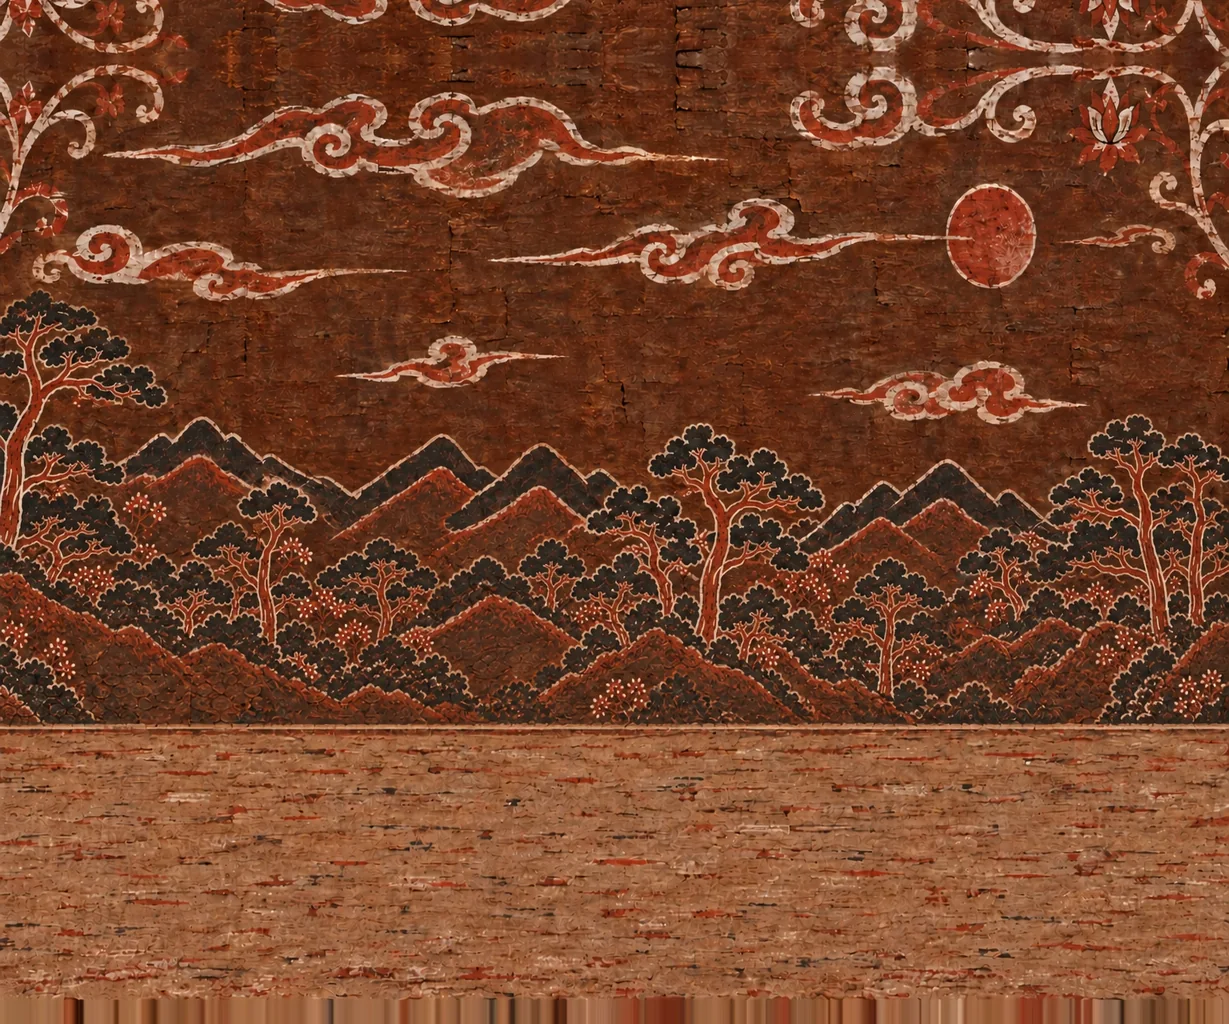
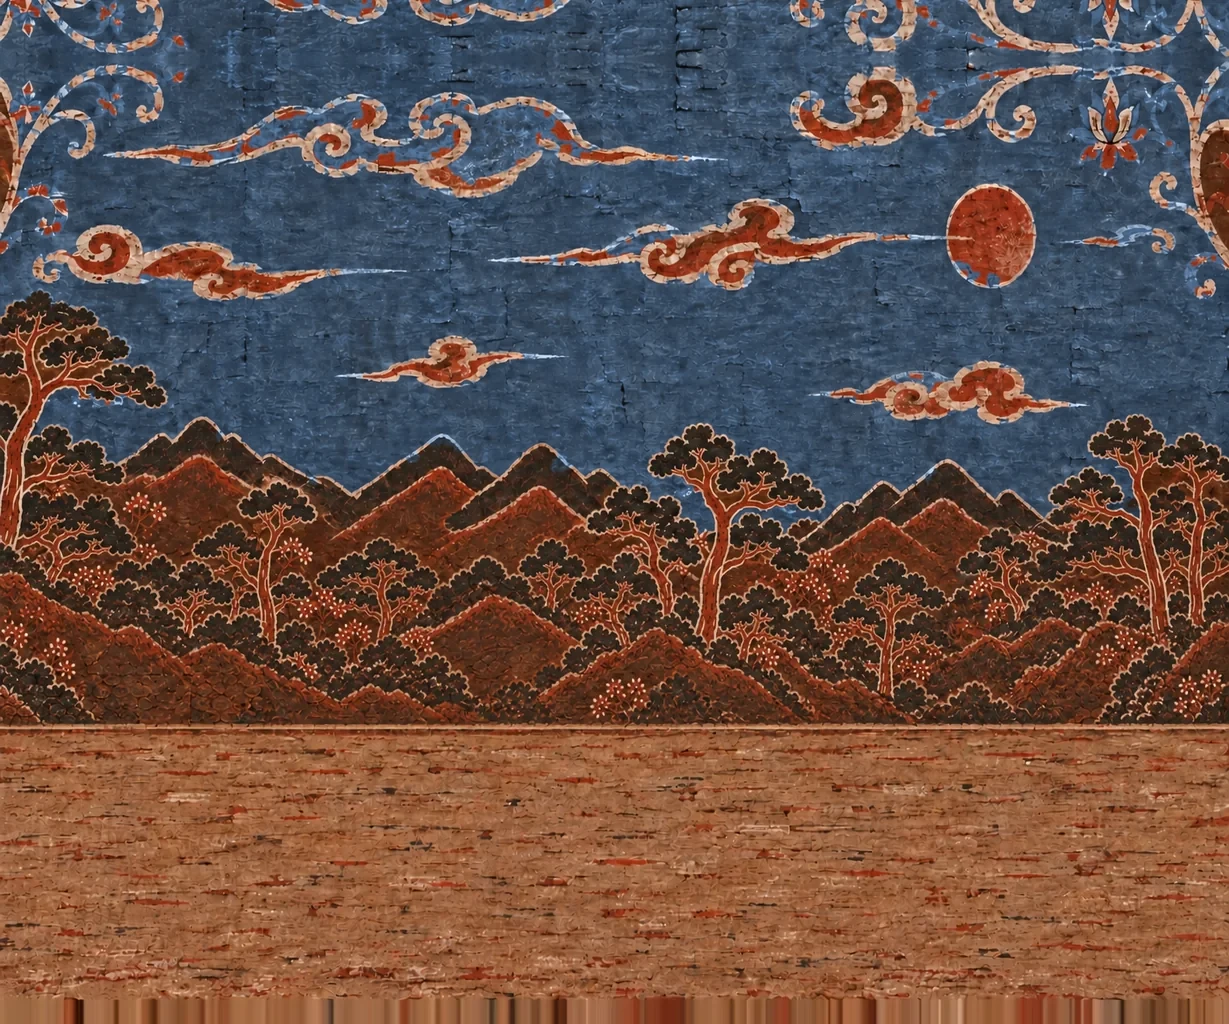
The sky of Seorabeol is grey-blue: only the bark ground of the sky is recoloured

diff --git a/docs/넘김.md b/docs/넘김.md
@@ -11,8 +11,8 @@
   - 모든 자리의 배경이 **세 겹**이 되었다: 후경(먼 건물, 물, 산, 하늘) / 중경(앞줄의 집과 좌판, 사람들) / 전경(눈앞의 것 넷). 그림이 있으면 저절로 켜진다(`node tools/layers.mjs` → `game/src/core/layers.js`). 실내 아홉 장면은 후경이 없다. 카메라와 사람들의 몸짓(`deep`)은 여전히 개봉과 기자뿐이다.
   - 다 마친 자리에서는 아무도 막지 않고 장면 사이를 건너뛴다. 길이 막힌 동안 다음 장면 단추에 자물쇠가 붙는다. 새소리가 절반쯤 드물다.
   - **새 자리 넷**(바빌론 `babylon575`, 서라벌 `cheomseongdae`, 치첸이트사 `chichen1000`, 사마르칸트 `samarkand1428`)을 지었다. **사용자가 아직 열어 보지 않았다. 나는 걸어서 이야기를 끝까지 해 보지 않았다.**
-- **(2026.10.13 11시) 둘째 묶음 넷의 사실과 스토리보드를 `docs/신기한-사실.md` 끝에 적고 사용자에게 보였다: "이대로 지어"를 기다린다.**
-- **(2026.10.13 11시) 서라벌 하늘 시안**: 사용자 "서라벌 하늘색만 좀 파란 쪽으로 바꿔볼까". 먼 겹 석 장의 하늘 바탕만 세 가지 푸른빛으로 바꿨다(`assets/codex/seorabeol-sky/make.py` → `out/<장면>-far-<a 쪽빛 | b 청회색 | c 하늘빛>.webp`, 겹쳐 본 그림 `look.jpg`). 아홉 장을 `game/public/walks/seorabeol640/` 에 복사해 두었고(커밋하지 않았다) 사용자의 서라벌 탭에 바꿔 보는 단추 넷을 끼워 넣었다(새로 고치면 사라진다). 고르면 그 석 장을 `<장면>-far.webp` 로 덮어쓰고 나머지 여섯 장을 지운다. 고르지 않으면 아홉 장을 지운다.
+- **(2026.10.13 11시) 둘째 묶음 넷(바그다드, 마추픽추, 그레이트 짐바브웨, 진나라 함양)의 사실과 스토리보드를 `docs/신기한-사실.md` 끝에 적고 보였고, 사용자가 "이대로 지어"라고 했다. 짓는 중이다**(짓는 틀은 아래 9번).
+- **(2026.10.13 11시) 서라벌의 하늘을 청회색으로 바꿨다**(사용자: "서라벌 하늘색만 좀 파란 쪽으로 바꿔볼까" → 쪽빛, 청회색, 하늘빛 셋을 단추로 보고 "하늘빛은 청회색으로"). 먼 겹 석 장(`seorabeol640/<장면>-far.webp`)의 하늘 바탕만 바꿨고 구름, 해, 덩굴무늬, 산과 나무는 그대로다. 도구는 `assets/codex/seorabeol-sky/make.py`(`TRIES` 의 `b`: 색상 212도, 채도 0.55배, 밝기 1.05배). 판 번호는 올리지 않았다.
 - **사용자의 답을 기다리는 것 셋**:
   1. **다음 묶음 넷**(바그다드, 마추픽추, 그레이트 짐바브웨, 진나라 함양)의 스토리보드를 올릴지. 그다음 묶음은 스톤헨지, 파도바, 파리 열기구, 시드니. 열둘의 그림체는 골라 두었다(아래 8번). 짓는 차례는 9번.
   2. **용량**: 게임 그림 173MB(자리 하나 6.5MB). 사용자: "도시 100개 넣어야하는데". 내가 권한 것: 사람 그림 PNG → WebP(46MB → 12MB), 안 쓰는 본디 배경 빼기(20MB), 화질 낮추기(견준 뒤), 자리 그림을 갈 때 내려받기(앱). 앞의 둘을 다음 묶음 전에 할지 물었다.
